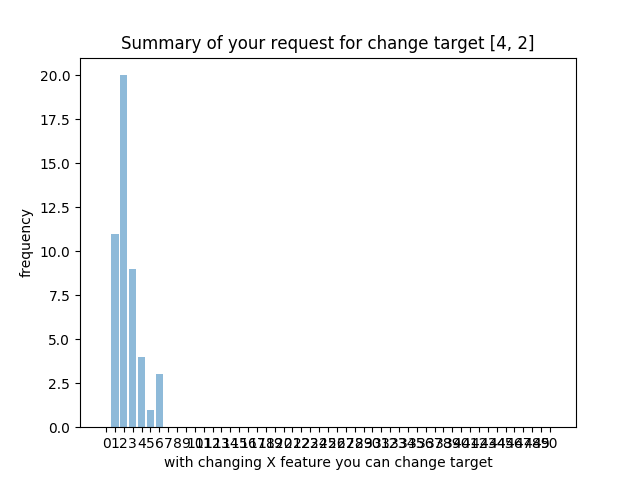
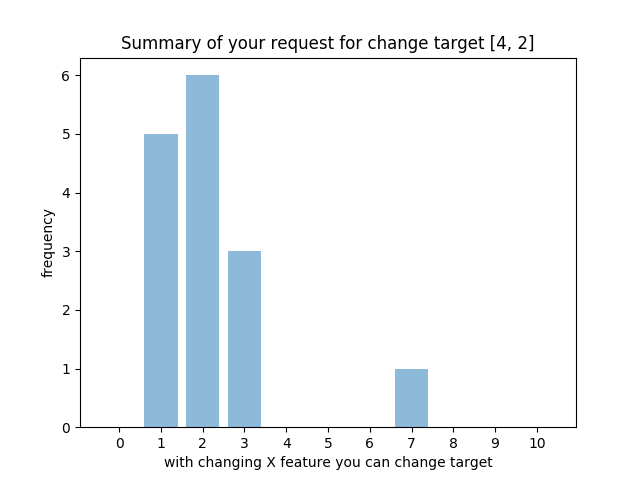
fix some BUGs

diff --git a/accuracy_drop_proj/strategies/change_combination_feature_min/change_combination_feature_min.py b/accuracy_drop_proj/strategies/change_combination_feature_min/change_combination_feature_min.py
@@ -23,56 +23,53 @@ class Change_Combination_Feature_Min(object):
             occurred_change = 0
             indices = [t for t, x in enumerate(y_train) if x == change_plan["key"][i][0]]
 
+
             print("{} rows have target {} \n".format(len(indices), change_plan["key"][i][0]))
 
             for L in range(0, len(x_train_changed[0]) + 1 ):
+                print("changing target, with change {} features ----".format(L))
 
                 for subset in Change_Combination.combinations_index(self,x_train_changed[0], L):
                     if not subset:
                         pass
                     else:
                         if (occurred_change == change_plan["number"][i]):
-                            #                         print("part of your request has been done :))))")
+                            #print("part of your request has been done :))))")
                             break
-                        print("change feature with index {} ----".format(subset))
+
 
                         for p in indices:
+
+
                             if y_train[p] == mnb.predict([x_train[p]]) and p not in used_row:
                                 change_done = False
 
                                 if change_done:
                                     break
                                 else:
-                                    for subset in Change_Combination.combinations_index(self,x_train_changed[p],L):
-                                        if not subset:
-                                            pass
+
+                                    if (occurred_change == change_plan["number"][i]):
+
+                                        break
+                                    else:
+
+                                        x_train_changed[p][subset] = 0
+
+                                        if (change_plan["key"][i][1] == mnb.predict([x_train_changed[p]])[0]):
+
+                                            change_done = True
+                                            print("with change features index number {} row number {} has been changed".format(subset,p))
+                                            print(x_train[p], mnb.predict([x_train[p]])[0])
+                                            print(x_train_changed[p], mnb.predict([x_train_changed[p]])[0])
+
+                                            print(" \n change number {} \n".format(all_changed))
+                                            used_row.update({p:p})
+                                            occurred_change = occurred_change + 1
+                                            all_changed = all_changed + 1
+
                                         else:
-                                            if (occurred_change == change_plan["number"][i]):
-                                                # print("part of your request has been done lllllllllllllll:)")
-                                                break
+                                            x_train_changed[p] = np.copy(x_train[p])
 
-                                            x_train_changed[p][subset] = 0
-
-                                            if (change_plan["key"][i][1] == mnb.predict([x_train_changed[p]])[0]):
-
-                                                change_done = True
-                                                print("with change features index number {} row number {} has been changed".format(subset,p))
-                                                print(x_train[p], mnb.predict([x_train[p]])[0])
-                                                print(x_train_changed[p], mnb.predict([x_train_changed[p]])[0])
-
-                                                print(" \n change number {} \n".format(all_changed))
-                                                used_row.update({p:p})
-                                                occurred_change = occurred_change + 1
-                                                all_changed = all_changed + 1
-
-                                                break
-                                            else:
-                                                x_train_changed[p] = np.copy(x_train[p])
-
-
-                                        if (occurred_change == change_plan["number"][i]):
-                                            # print("part of your request has been done :)")
-                                            break
 
         if (all_changed <= number_change_requested):
             print("your request doesn't complete! please change your plan")

diff --git a/accuracy_drop_proj/strategies/change_combination_min/change_combination_min.py b/accuracy_drop_proj/strategies/change_combination_min/change_combination_min.py
@@ -17,22 +17,24 @@ class Change_Combination_Min(object):#base rows
 
         used_row={}
         occurred_change = 0
+        possible_changes_counter = 0
         all_changed = 1
         change_done = False
         x_train_changed = np.copy(x_train)
         possible_changes = {}  # key: number of changes and  value:[row,[columns should change]]
 
         for i in range(len(change_plan["key"])):
-
+            possible_changes_counter = 0
             occurred_change = 0
             indices = [t for t, x in enumerate(y_train) if x == change_plan["key"][i][0]]
             possible_changes = {x: [] for x in range(len(x_train[0]) + 1)}
             print("{} rows have target {} \n".format(len(indices), change_plan["key"][i][0]))
-
+            print(indices)
             for p in range(len(indices)):
 
                 if y_train[indices[p]] == mnb.predict([x_train[indices[p]]]) and indices[p] not in used_row:
                     change_done = False
+
                     for L in range(0, len(x_train_changed[indices[p]]) + 1 ):
                         if change_done:
                             break
@@ -41,16 +43,22 @@ class Change_Combination_Min(object):#base rows
                                 if not subset:
                                     pass
                                 else:
-
+                                    print('subset is {} and row is {}'.format(subset,indices[p]))
                                     x_train_changed[indices[p]][subset] = 0
-
-                                    if (change_plan["key"][i][1] == mnb.predict([x_train_changed[indices[p]]])[0]):
-                                        possible_changes[len(subset)].append([indices[p], subset])
-                                        change_done = True
-                                        x_train_changed[indices[p]] = np.copy(x_train[indices[p]])
+                                    if (possible_changes_counter == change_plan["number"][i]):
+                                        # print("the requested number of change have been found")
                                         break
                                     else:
-                                        x_train_changed[indices[p]] = np.copy(x_train[indices[p]])
+
+                                        if (change_plan["key"][i][1] == mnb.predict([x_train_changed[indices[p]]])[0]):
+                                            possible_changes[len(subset)].append([indices[p], subset])
+                                            change_done = True
+                                            x_train_changed[indices[p]] = np.copy(x_train[indices[p]])
+                                            possible_changes_counter=possible_changes_counter+1
+                                            print('Found')
+                                            break
+                                        else:
+                                            x_train_changed[indices[p]] = np.copy(x_train[indices[p]])
 
             if (all(value == [] for value in possible_changes.values())):
                 print("part of your request not possible!")
@@ -59,8 +67,7 @@ class Change_Combination_Min(object):#base rows
             for key in sorted(possible_changes):
                 if (occurred_change == change_plan["number"][i]):
                     break
-                print("there are {} candidate for changing target with change {} features".format(
-                    len(possible_changes[key]), key))
+                print("there are {} candidate for changing target with change {} features".format(len(possible_changes[key]), key))
                 variable = possible_changes[key]
                 for t in range(len(variable)):
 
@@ -68,7 +75,7 @@ class Change_Combination_Min(object):#base rows
 
                     x_train_changed[variable[t][0]][variable[t][1]] = 0
                     print(x_train_changed[variable[t][0]], mnb.predict([x_train_changed[variable[t][0]]])[0])
-                    print(" \n change number {} \n".format(all_changed))
+                    print(" \n change number {} on row {} \n".format(all_changed,variable[t][0]))
                     used_row.update({variable[t][0]:variable[t][0]})
                     occurred_change = occurred_change + 1
                     all_changed = all_changed + 1

diff --git a/accuracy_drop_proj/strategies/change_uncertaint_rankfeatures/change_uncertainty_rankfeatures.py b/accuracy_drop_proj/strategies/change_uncertaint_rankfeatures/change_uncertainty_rankfeatures.py
@@ -8,6 +8,7 @@ from accuracy_drop_proj.strategies.change_combination.change_combination import 
 """
 this  method first sort the rows according to uncetainity and features according to information gain and then pick
 first rows that classifer is not sure about them and feature are more likely to change 
+algorithm 3
 """
 class Change_Uncertainty_Rankfeatures(object):
     def __init__(self):
@@ -55,6 +56,7 @@ class Change_Uncertainty_Rankfeatures(object):
         #---------------------------finding the order of the row according to uncertainity-------------------------
 
         probability = mnb.predict_proba(x_train)
+        print(probability)
 
         print("finding uncertainity")
 
@@ -65,11 +67,10 @@ class Change_Uncertainty_Rankfeatures(object):
             largest_val=[]
             # print(index,row,np.subtract(largest_val[0],largest_val[1]))
 
-        print(len(probability))
-        print(len(uncertainty))
+
         #sort the uncertainty
         uncertainty_sorted=sorted(uncertainty.items(), key=lambda x:x[1],reverse=True)
-
+        print(uncertainty_sorted)
 
         print("changing")
         #---------------------------------------------changing--------------------------------------------
@@ -92,13 +93,15 @@ class Change_Uncertainty_Rankfeatures(object):
 
 
             print("{} rows have target {} \n".format(len(indices), change_plan["key"][i][0]))
-
+            print("try in indices")
             for p in range(len(indices)):
-                print("try in indices")
+
                 if (all_changed == number_change_requested + 1):
                     print("your requests have been done :)")
                     break
                 if y_train[indices[p]] == mnb.predict([x_train[indices[p]]]) and indices[p] not in used_row:
+                    print(indices[p])
+
 
                     change_done = False
                     for subset in all_subset:
@@ -107,10 +110,7 @@ class Change_Uncertainty_Rankfeatures(object):
                         else:
 
                             if (occurred_change == change_plan["number"][i]):
-                                #                         print("part of your request has been done :))))")
-                                break
-                            if len(list(subset[0]))>5:
-                                print("max number of the operations")
+                                #print("part of your request has been done :))))")
                                 break
 
                             print("try to change, with change index {} on row {}".format(list(subset[0]),indices[p]))
@@ -119,15 +119,15 @@ class Change_Uncertainty_Rankfeatures(object):
                             if (change_plan["key"][i][1] == mnb.predict([x_train_changed[indices[p]]])[0]):
 
                                 print(x_train[indices[p]], mnb.predict([x_train[indices[p]]])[0])
-                                print(x_train_changed[indices[p]],
-                                      mnb.predict([x_train_changed[indices[p]]])[0])
-                                print(" \n change number {} \n".format(all_changed))
+                                print(x_train_changed[indices[p]],mnb.predict([x_train_changed[indices[p]]])[0])
+                                print(" \n change number {} on row {} \n".format(all_changed,indices[p]))
+
 
                                 used_row.update({indices[p]: indices[p]})
                                 occurred_change = occurred_change + 1
                                 change_done = True
                                 all_changed = all_changed + 1
-                                break
+                                # break
 
                             else:
                                 x_train_changed[indices[p]] = np.copy(x_train[indices[p]])

diff --git a/accuracy_drop_proj/user_interface_accuracy_drop.py b/accuracy_drop_proj/user_interface_accuracy_drop.py
@@ -48,11 +48,18 @@ print(x_test.shape)
 
 #--------------------- Tree -----------------------------------------
 
-model=tree.DecisionTreeClassifier()
+model=tree.DecisionTreeClassifier(random_state= 4)
 print("train tree")
 model.fit(x_train,y_train)
 y_pred = model.predict(x_test)
 print('Accuracy of tree classifier on test set: {:.2f}'.format(accuracy_score(y_test,y_pred)))
+
+# ---------------------KNN ---------------------------------------
+# from sklearn.naive_bayes import GaussianNB
+# model= GaussianNB()
+# model.fit(x_train,y_train)
+# y_pred = model.predict(x_test)
+# print('Accuracy of tree classifier on test set: {:.2f}'.format(accuracy_score(y_test,y_pred)))
 
 #--------------------choose your method--------------------------------------------
 
@@ -64,8 +71,8 @@ print('Accuracy of tree classifier on test set: {:.2f}'.format(accuracy_score(y_
 # mymethod =Change_Combination_Min()     #Alg1
 # mymethod=Change_Combination_Feature_Min() #Alg2
 # mymethod = Change_Ranked_Feature_Informationgain()
-# mymethod = Change_Uncertainty_Rankfeatures() #Alg3
-mymethod = Change_ProbabilityDistance_RankFeature() #Alg4
+mymethod = Change_Uncertainty_Rankfeatures() #Alg3
+# mymethod = Change_ProbabilityDistance_RankFeature() #Alg4
 
 
 #-------------------------- change plan ---------------------------------------------
@@ -76,7 +83,7 @@ start = time.time()
 
 
 
-change_plan={"key":[[4,2]],"number":[25]}
+change_plan={"key":[[4,2],[4,3]],"number":[10,15]}
 
 
 # change_plan={"key":[[0,1],[2,1]],"number":[10,10]}

diff --git a/accuracy_drop_proj/utilities/load_dataset/eeg_loader.py b/accuracy_drop_proj/utilities/load_dataset/eeg_loader.py
@@ -17,13 +17,15 @@ class EEG_Loader(object):
         data = data.drop(['Unnamed: 0'], axis=1)
 
         del data["y"]  # remove rings from data, so we can convert all the dataframe to a numpy 2D array.
-        data2=data.iloc[:, [0, 1, 2, 3, 4, 5, 6, 7, 8, 9, 10, 11, 12, 13, 14, 15, 16, 17, 18, 19, 20, 21, 22, 23, 24, 25, 26, 27, 28, 29,30, 31, 32, 33, 34, 35, 36, 37, 38, 39, 40, 41, 42, 43, 44, 45, 46, 47, 48, 49, 50, 51, 52, 53, 54, 55, 56, 57, 58, 59,60, 61, 62, 63, 64, 65, 66, 67, 68, 69, 70, 71, 72, 73, 74, 75, 76, 77, 78, 79, 80, 81, 82, 83, 84, 85, 86, 87, 88, 89, 90, 96, 128, 129, 130, 131, 132, 133, 134, 171]]
+        data2=data.iloc[:, [0, 1, 2, 3, 4, 5, 6, 7, 8, 9]]
         X = data2.values.astype(np.float)
 
 
         x_train, x_test, y_train, y_test = train_test_split(X, y, test_size= 0.043478260869565216 , random_state=4)
 
         print(x_test.shape)
+
+
 
         return x_train, x_test, y_train, y_test
 
